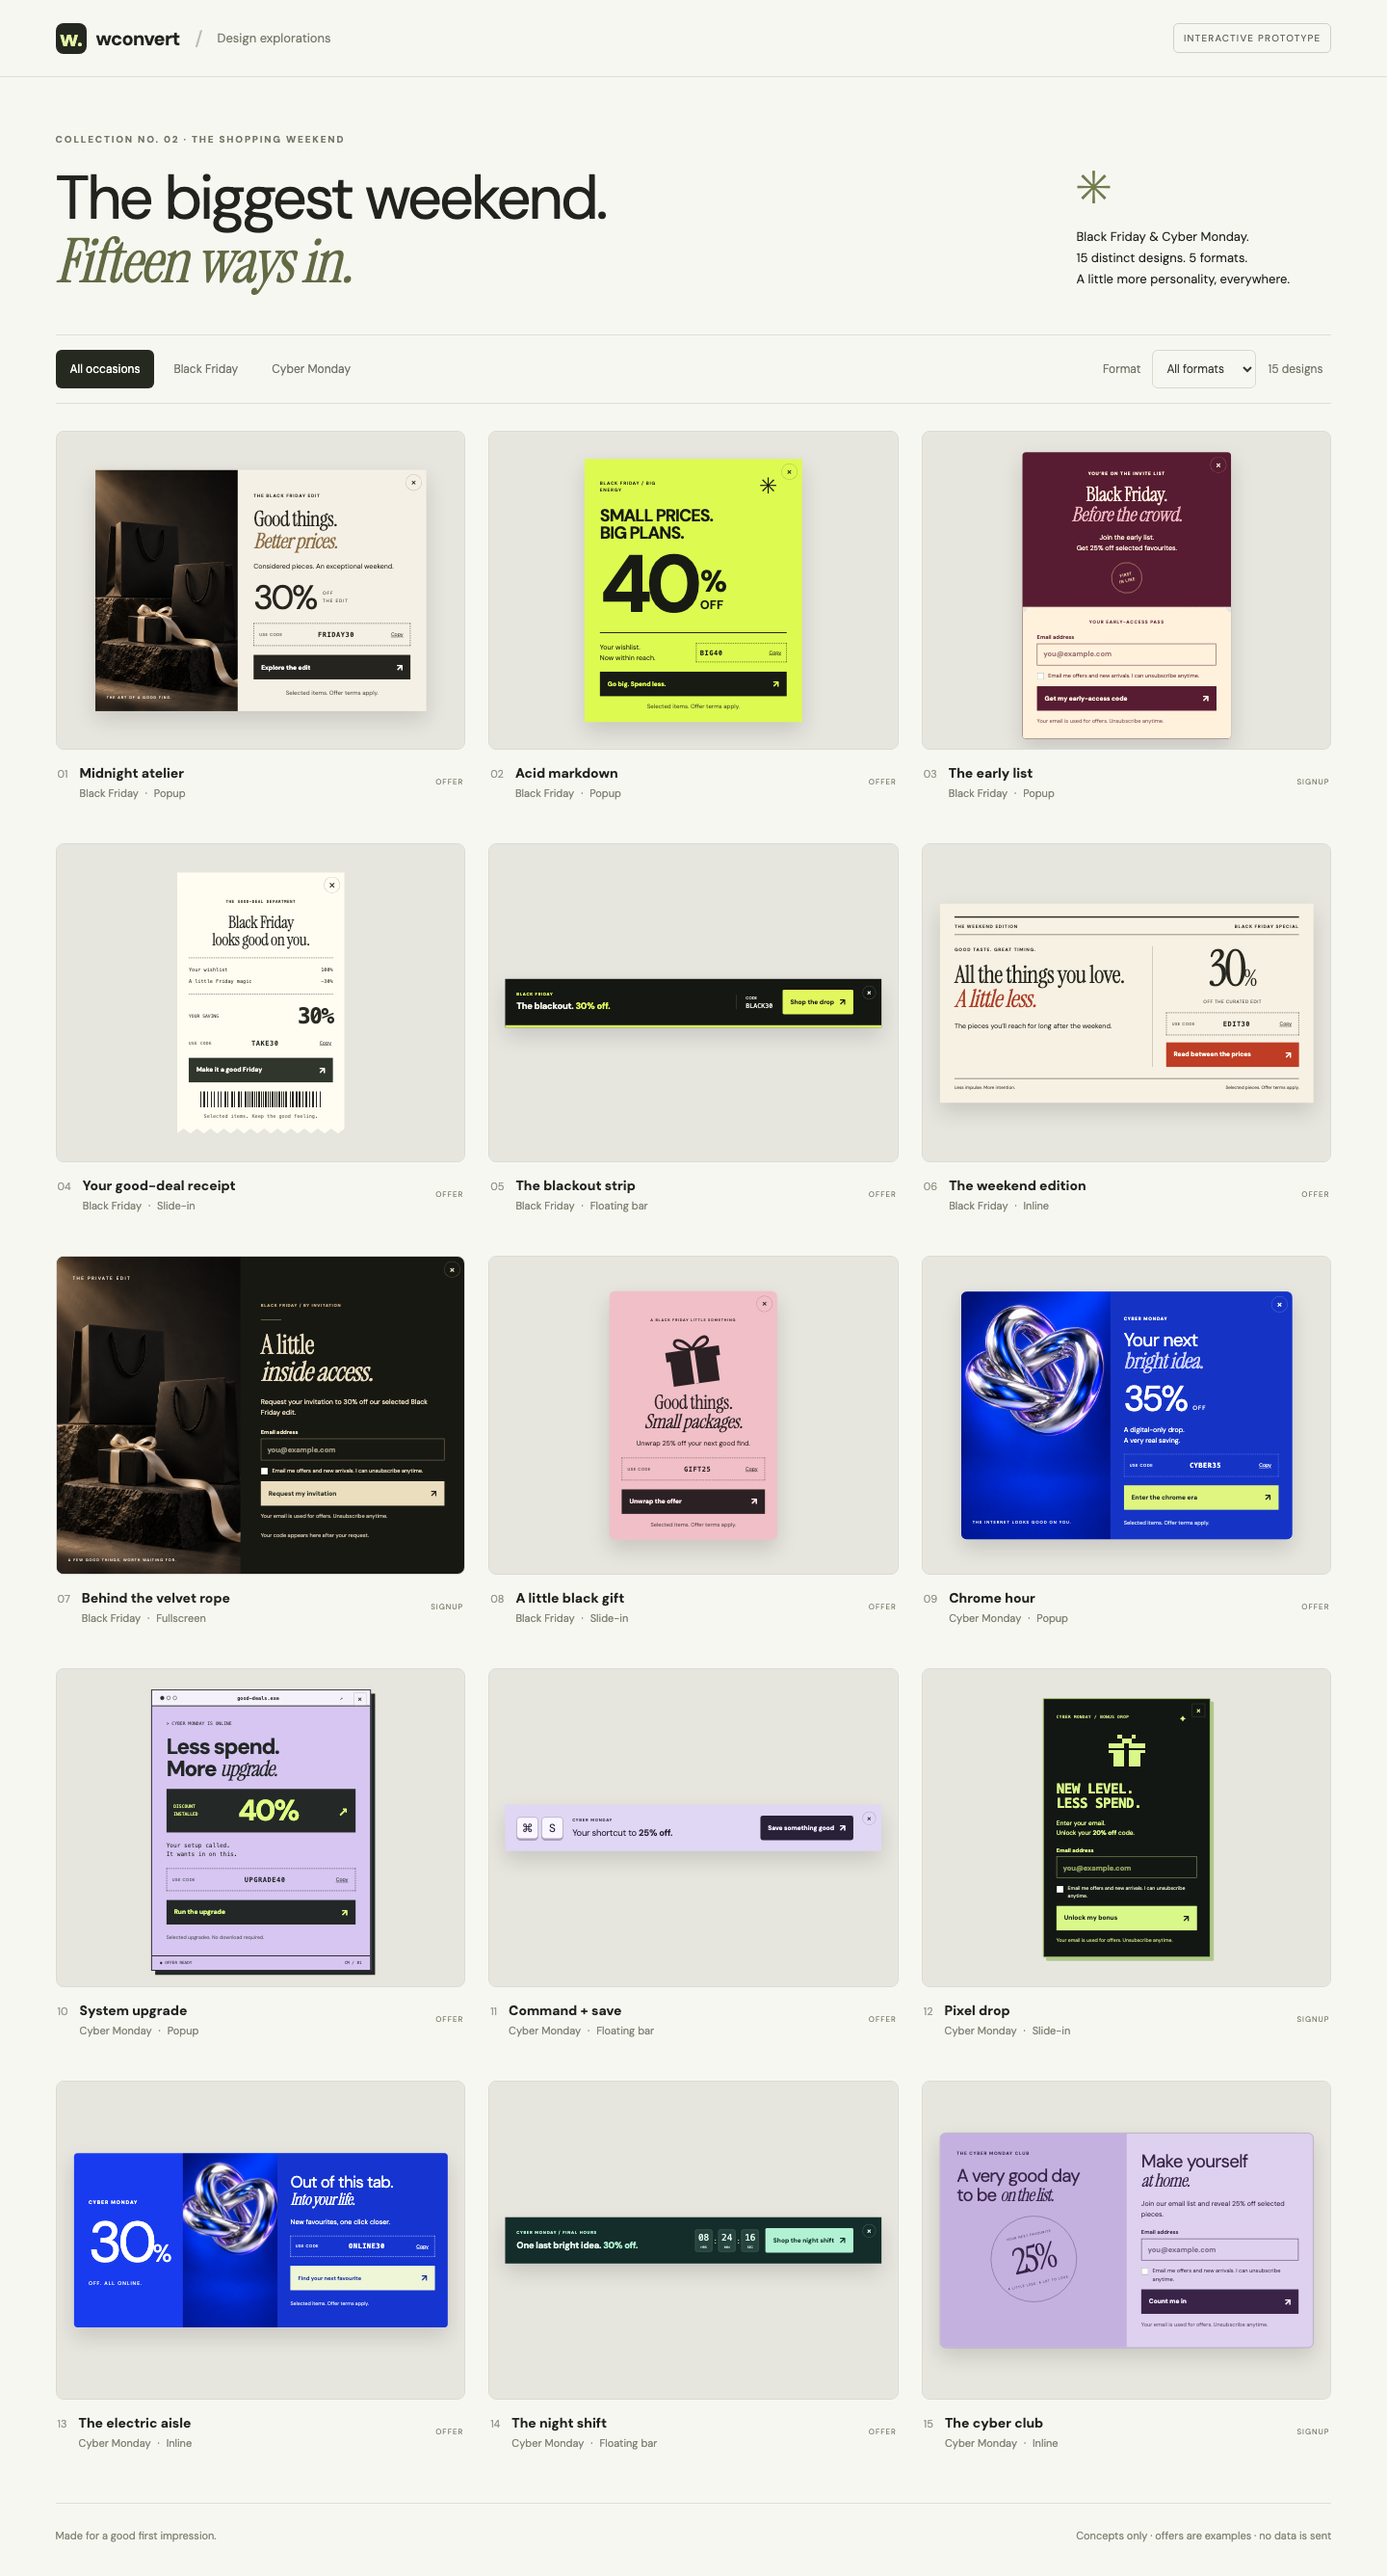
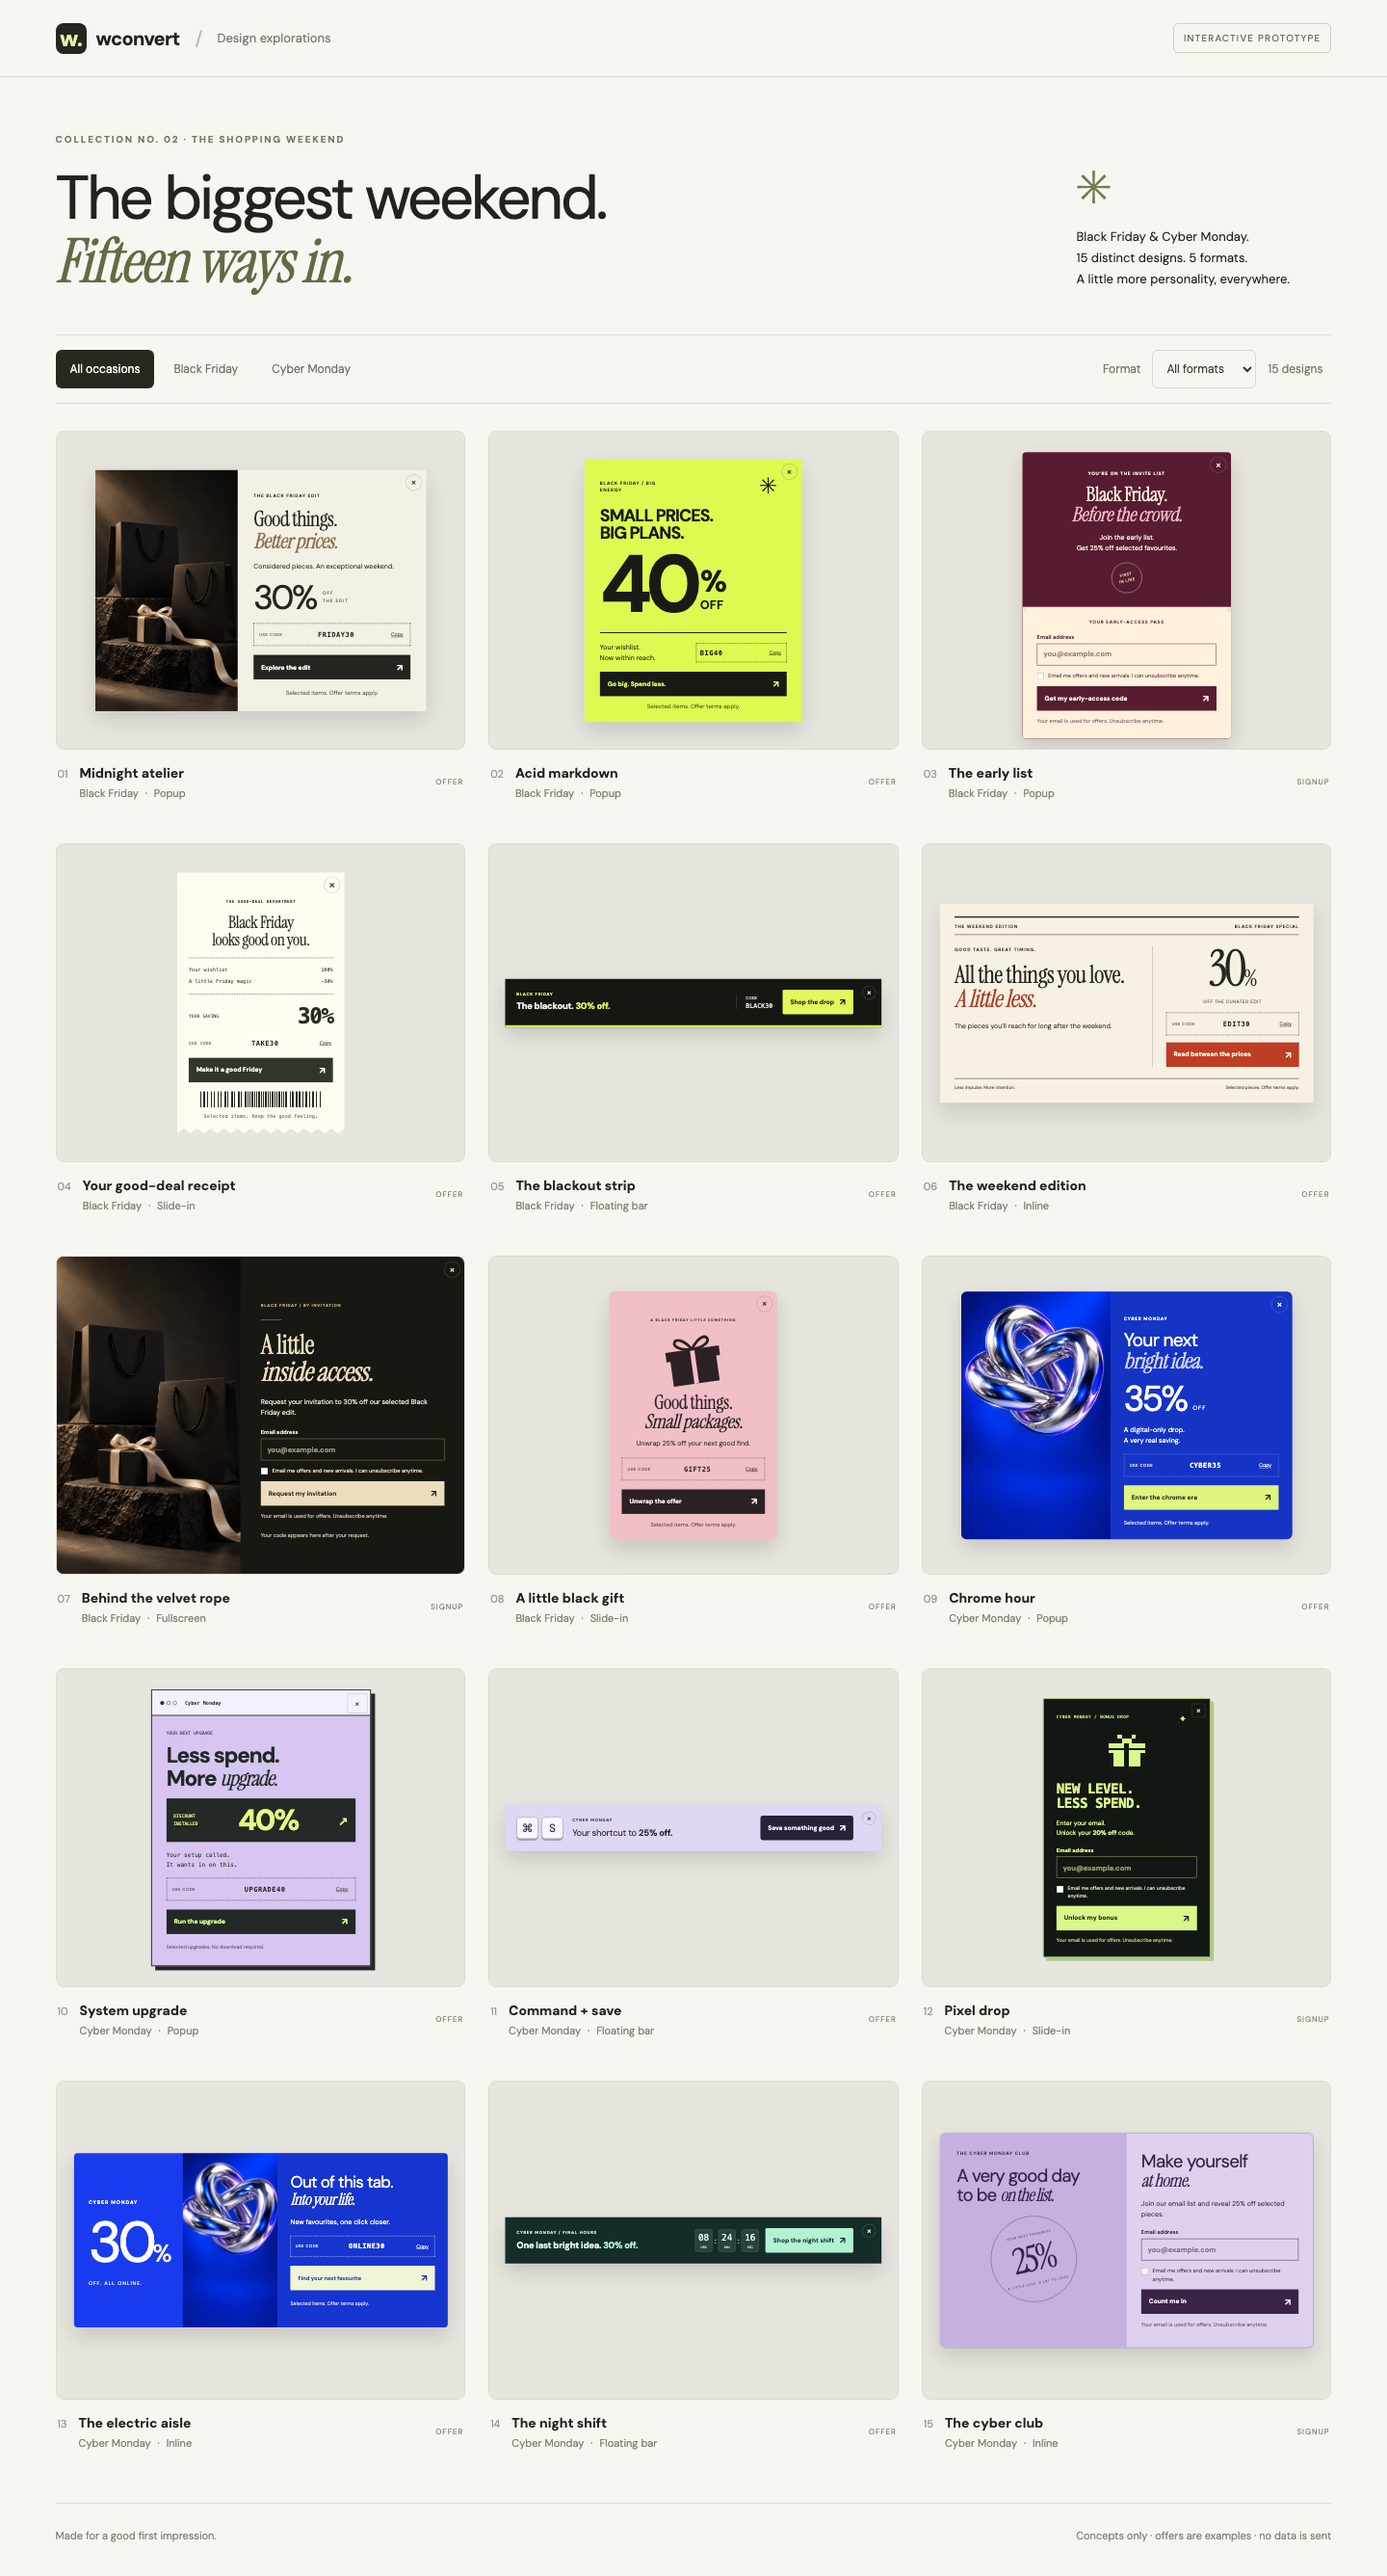
Refine commerce prototype imagery and window header

Changed region(s): [[0.0938, 0.6521, 0.2812, 0.7763]]

diff --git a/tools/design-library/commerce-prototype/style.css b/tools/design-library/commerce-prototype/style.css
@@ -54,3 +54,7 @@
 @media(max-width:600px){.campaign.theme-acid{padding-top:56px}.invitation{padding-top:58px}.format-floating-bar .campaign{padding-right:62px}.campaign.theme-receipt,.campaign.theme-gift{padding-top:58px}}
 .campaign.theme-pixel.is-ack{padding:0}
 .theme-pixel .ack h1{font:700 34px/1.1 ui-monospace,monospace;letter-spacing:-2px}
+
+/* The real dismiss button belongs to the window title row, at every width. */
+.theme-system .window-title{height:56px;min-height:56px;padding:0 64px 0 18px;justify-content:flex-start;gap:18px}
+.campaign.theme-system .dismiss{top:6px;right:6px;width:44px;min-height:44px;height:44px;border-radius:2px;background:#f5f1fa}

diff --git a/tools/design-library/commerce-prototype/NOTES.md b/tools/design-library/commerce-prototype/NOTES.md
@@ -56,6 +56,16 @@ On selection, re-author the chosen trees with stable IDs and roles, palette toke
 
 No WordPress boot claim is made: this is an isolated browser prototype. A real WordPress run belongs to the subsequent production-template work.
 
+## Editor fidelity and coupon flows
+
+The image panes in 01, 07 and 09 contain no overlaid wording. System upgrade (10) keeps its real dismiss control inside the title row at phone and desktop widths; the title says Cyber Monday and there are no unexplained status identifiers.
+
+The text in 03 and 15 should remain editable when promoted. The exact rotated circular stamps are prototype CSS, not native editor controls: rounded panels and text are supported, arbitrary rotation and fixed panel aspect ratios are not. Prefer a simplified editable panel/badge rather than baking the discount into an image. In 08, the gift illustration is artwork; headline, offer and code remain editable. The ⌘ S motif in 11 is decorative and does not install a keyboard shortcut or replace the browser’s Save command.
+
+The current editor supports a required email/SMS form followed by an acknowledgement containing a Discount code with Copy button → Code and copy button. Start from a capture design for Grow my email list or Grow my SMS list; require its matching field, edit the submit label, and put the valid store coupon only on the acknowledgement. An optional introductory Message screen can precede the form. Test the complete route before publishing. Adding a Message screen to a click-only offer does not itself create the required primary form/submission; signup versions of these offer compositions must be authored deliberately. A second optional channel must not withhold a reward already earned by the first required signup.
+
+Checked against `JourneyEditor.tsx`, `structure/catalogue.ts`, `SlotFields.tsx`, `TemplateLabels.php` and the shipping renderer CSS. These are existing product capabilities, not a claim that the prototype gallery is installed in WordPress.
+
 ## Decision
 
 Pending visual selection. Choose IDs, combinations or changes in the review conversation. After the direction is agreed, absorb the chosen design intent into library sources and delete the throwaway implementation.
